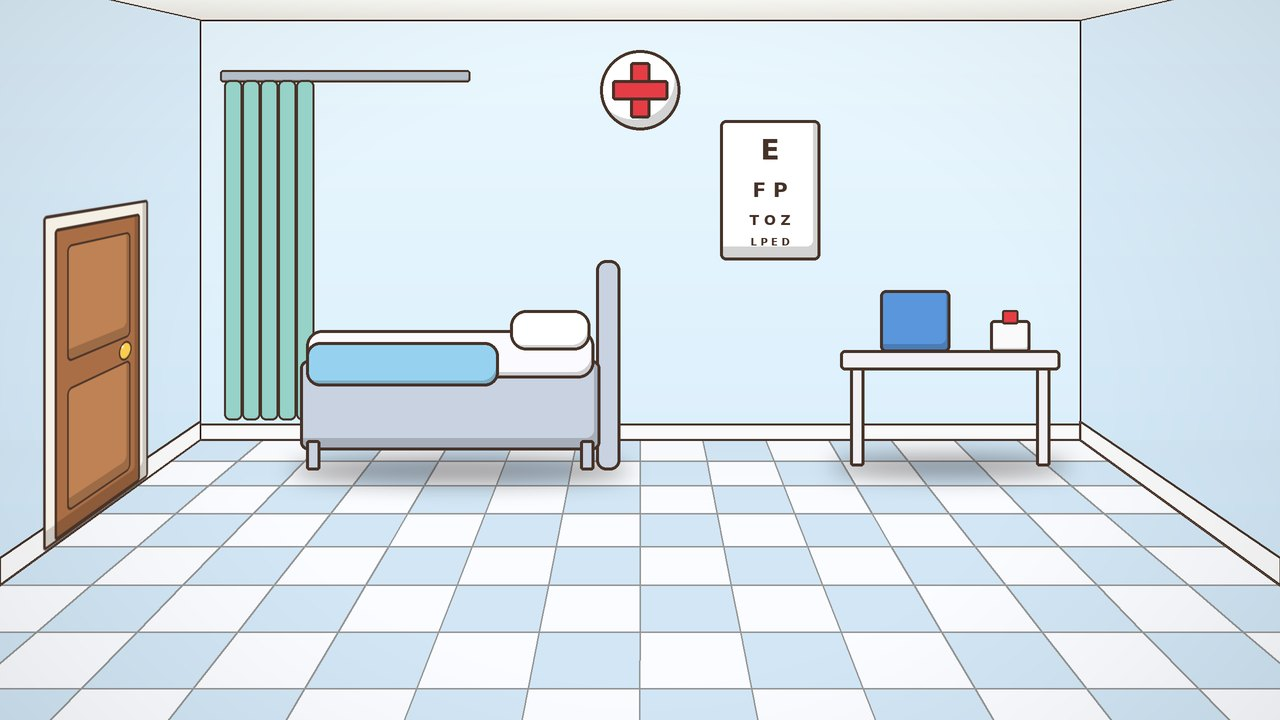
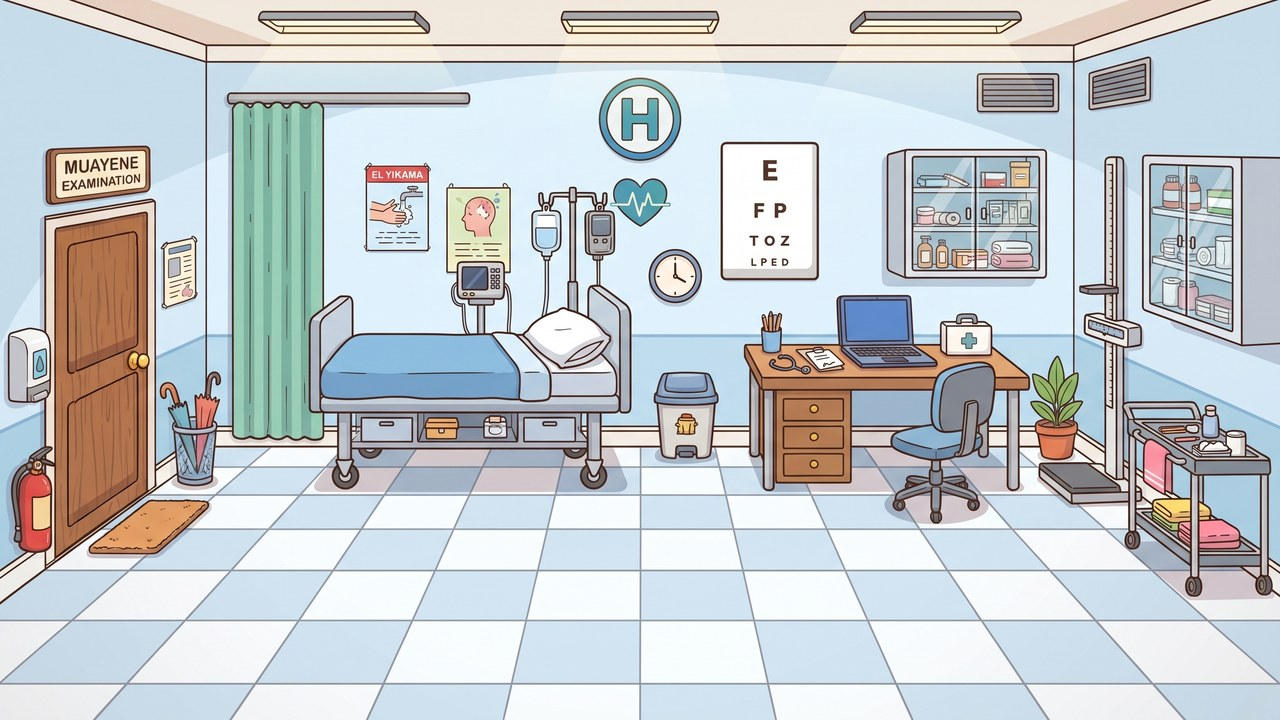
Hastane: yeni resim, hasta yatağı, doktor masası ve sandalyesi, sabunluk, araba üstünde havlu ve sabun
Claude-Session: https://claude.ai/code/session_01FSkVF6b9FMUcpnurV8yuFZ

diff --git a/js/veri.js b/js/veri.js
@@ -508,15 +508,24 @@ window.OYUN_VERI = {
     },
     hastane: {
       ad: "Hastane", simge: "hastane",
-      resim: "cizimler/mekan/hastane.jpg", zemin: ZEMIN, giris: GIRIS_SOL,
-      kapilar: [{ ...KAPI_SOL, hedef: "dunya", yer: "hastane" }],
+      resim: "cizimler/mekan/hastane.jpg",
+      zemin: { ust: 480, alt: 705, sol: 30, sag: 1250, ufuk: { x: 640, y: 170 }, arka: { sol: 205, sag: 1075, y: 440 } },
+      giris: { x: 240, y: 600 },
+      kapilar: [{ x: 45, y: 200, w: 112, h: 350, hedef: "dunya", yer: "hastane" }],
       calisan: {
-        meslek: "doktor", x: 760, y: 500,
+        meslek: "doktor", x: 690, y: 530,
         selam: "Hoş geldiniz! Ne rahatsızlığınız vardı?",
         sozler: ["Ağzınızı açın, aaa deyin.", "Derin nefes alın, verin.", "Ateşiniz var mı? Bir ölçelim.", "Şurubunuzu günde üç kez için.", "Geçmiş olsun! Bol su için, dinlenin."],
       },
       noktalar: [
-        { tur: "yatak", x: 290, y: 280, w: 340, h: 200, yatis: { x: 320, y: 318 }, uzunluk: 270, yorgan: { x: 306, y: 300, w: 190, h: 84 }, renk: [150, 210, 240] },
+        // Hasta yatağı. Yastık sağda.
+        { tur: "yatak", x: 310, y: 295, w: 320, h: 190, yatis: { x: 355, y: 362 }, uzunluk: 240, yorgan: { x: 320, y: 335, w: 200, h: 62 }, renk: [96, 140, 196] },
+        { tur: "tezgah", x: 745, y: 320, w: 285, h: 45, ust: 352 },
+        // Doktorun döner sandalyesi.
+        { tur: "otur", x: 890, y: 365, w: 105, h: 150, oturma: { x: 935, y: 505 } },
+        // Kapının yanındaki sabunluk.
+        { tur: "musluk", x: 8, y: 328, w: 45, h: 75, su: { x: 28, y: 398, boy: 12, renk: [200, 230, 255] } },
+        { tur: "raf", raflar: [{ sablon: "havlu", x: 1215, y: 548 }, { sablon: "sabun", x: 1235, y: 450 }] },
       ],
     },
     kuafor: {
